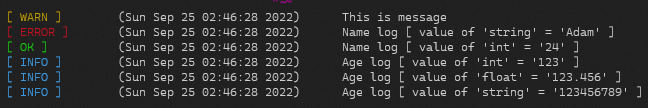
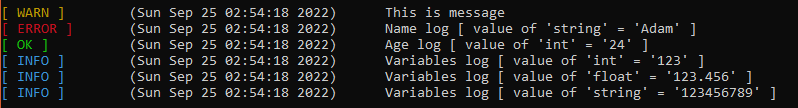
Fixed example

diff --git a/README.md b/README.md
@@ -65,7 +65,7 @@ static void logVars(std::string logContent, LOG_TYPE logType, T... t);
   KFCppLog::log("This is message", LOG_TYPE::WARNING);
   KFCppLog::logVar("Name log", LOG_TYPE::ERR, name);
   KFCppLog::logVar("Age log", LOG_TYPE::SUCCESS, age);
-  KFCppLog::logVars("Age log", LOG_TYPE::INFO, var1, var2, var3);
+  KFCppLog::logVars("Variables log", LOG_TYPE::INFO, var1, var2, var3);
 ```
 
 ![alt text](https://github.com/KitsF0x/KFCppLog/blob/main/example.png?raw=true)
